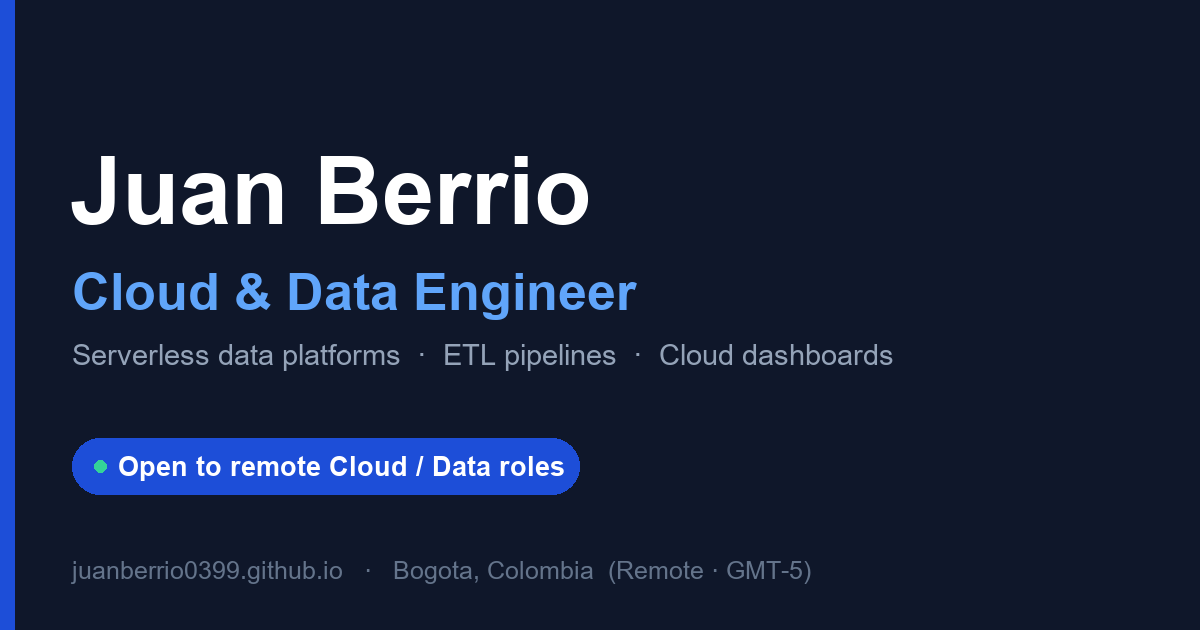
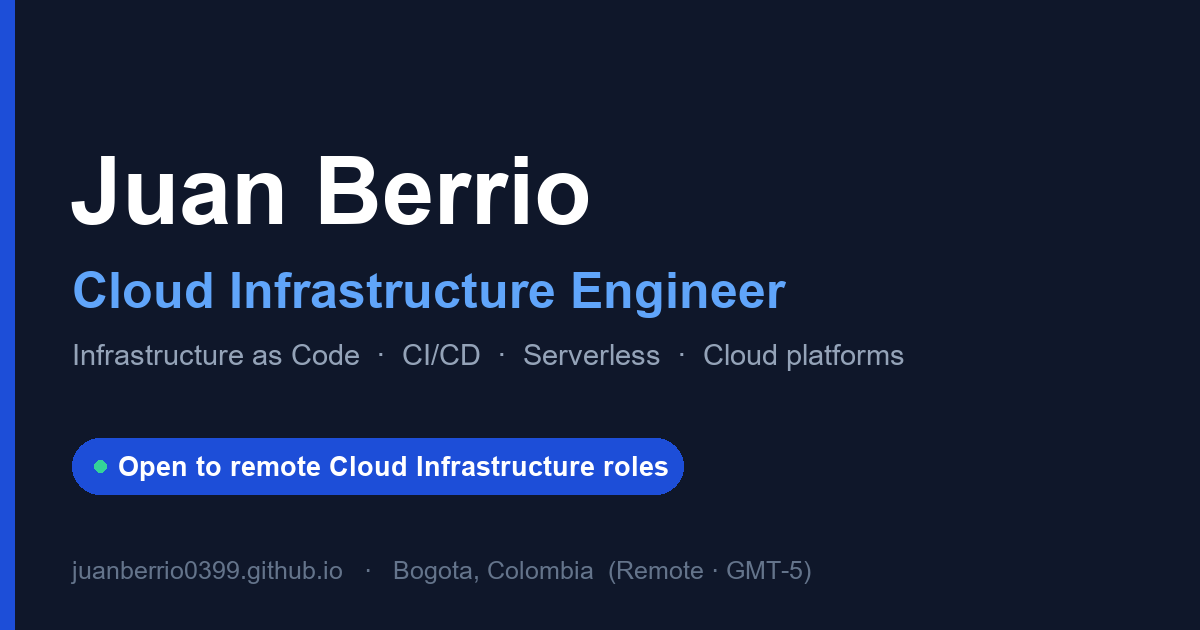
reposicionar a Cloud Infrastructure Engineer (hero, title, meta, OG/Twitter + imagen OG regenerada)

Changed region(s): [[0.0617, 0.4222, 0.6475, 0.5127], [0.0617, 0.5429, 0.7708, 0.6032], [0.3392, 0.6937, 0.5858, 0.7841]]

diff --git a/index.html b/index.html
@@ -3,21 +3,21 @@
 <head>
 <meta charset="UTF-8" />
 <meta name="viewport" content="width=device-width, initial-scale=1.0" />
-<title>Juan Berrio — Cloud &amp; Data Engineer</title>
-<meta name="description" content="Juan Berrio — Cloud & Data Engineer. Serverless data platforms, ETL pipelines and cloud dashboards. Building toward Cloud Architect." />
+<title>Juan Berrio — Cloud Infrastructure Engineer</title>
+<meta name="description" content="Juan Berrio — Cloud Infrastructure Engineer. Infrastructure as Code, CI/CD and serverless cloud platforms. Building toward Cloud Architect." />
 <link rel="canonical" href="https://juanberrio0399.github.io/" />
 <link rel="icon" href="favicon.svg" type="image/svg+xml" />
 <link rel="apple-touch-icon" href="favicon.svg" />
 <meta property="og:type" content="website" />
-<meta property="og:title" content="Juan Berrio — Cloud & Data Engineer" />
-<meta property="og:description" content="Serverless data platforms, ETL pipelines and cloud dashboards. Open to remote Cloud / Data roles." />
+<meta property="og:title" content="Juan Berrio — Cloud Infrastructure Engineer" />
+<meta property="og:description" content="Infrastructure as Code, CI/CD and serverless cloud platforms. Open to remote Cloud Infrastructure roles." />
 <meta property="og:url" content="https://juanberrio0399.github.io/" />
 <meta property="og:image" content="https://juanberrio0399.github.io/og-image.png" />
 <meta property="og:image:width" content="1200" />
 <meta property="og:image:height" content="630" />
 <meta name="twitter:card" content="summary_large_image" />
-<meta name="twitter:title" content="Juan Berrio — Cloud & Data Engineer" />
-<meta name="twitter:description" content="Serverless data platforms, ETL pipelines and cloud dashboards. Open to remote Cloud / Data roles." />
+<meta name="twitter:title" content="Juan Berrio — Cloud Infrastructure Engineer" />
+<meta name="twitter:description" content="Infrastructure as Code, CI/CD and serverless cloud platforms. Open to remote Cloud Infrastructure roles." />
 <meta name="twitter:image" content="https://juanberrio0399.github.io/og-image.png" />
 <link rel="preconnect" href="https://fonts.googleapis.com" />
 <link rel="preconnect" href="https://fonts.gstatic.com" crossorigin />
@@ -184,11 +184,11 @@
 
 <header>
   <div class="wrap">
-    <span class="avail rv"><span class="dot"></span><span data-en="Open to remote Cloud / Data roles" data-es="Abierto a roles remotos Cloud / Data">Open to remote Cloud / Data roles</span></span>
+    <span class="avail rv"><span class="dot"></span><span data-en="Open to remote Cloud Infrastructure roles" data-es="Abierto a roles remotos de Cloud Infrastructure">Open to remote Cloud Infrastructure roles</span></span>
     <h1 class="rv">Juan Berrio</h1>
-    <div class="role rv">Cloud &amp; Data Engineer<span data-en=" · building toward Cloud Architect" data-es=" · en camino a Cloud Architect"> · building toward Cloud Architect</span></div>
+    <div class="role rv">Cloud Infrastructure Engineer<span data-en=" · building toward Cloud Architect" data-es=" · en camino a Cloud Architect"> · building toward Cloud Architect</span></div>
     <p class="print-only">juandyb99@gmail.com · +57 319 617 3131 · linkedin.com/in/juanberrioo · github.com/juanberrio0399 · juanberrio0399.github.io · Bogotá, Colombia (Remote · GMT-5)</p>
-    <p class="lead rv" data-en="I turn data into reliable decision systems — ETL pipelines, analytical warehouses and BI — and bring them to the cloud as low-cost serverless platforms." data-es="Convierto datos en sistemas de decisión confiables — pipelines ETL, warehouses analíticos y BI — y los llevo a la nube como plataformas serverless de bajo costo.">I turn data into reliable decision systems — ETL pipelines, analytical warehouses and BI — and bring them to the cloud as low-cost serverless platforms.</p>
+    <p class="lead rv" data-en="I build and automate cloud infrastructure — serverless platforms, Infrastructure as Code and CI/CD — that runs reliably at low cost." data-es="Construyo y automatizo infraestructura cloud — plataformas serverless, Infraestructura como Código y CI/CD — que corre confiable y a bajo costo.">I build and automate cloud infrastructure — serverless platforms, Infrastructure as Code and CI/CD — that runs reliably at low cost.</p>
     <div class="cta rv">
       <a class="btn primary" href="#" onclick="window.print();return false;" data-en="⬇ Download Portfolio (PDF)" data-es="⬇ Descargar portafolio (PDF)">⬇ Download Portfolio (PDF)</a>
       <a class="btn" href="https://github.com/juanberrio0399/portfolio/raw/main/resume/CV_Juan_Berrio_EN.pdf" target="_blank" rel="noopener" data-en="CV (EN)" data-es="CV (EN)">CV (EN)</a>
